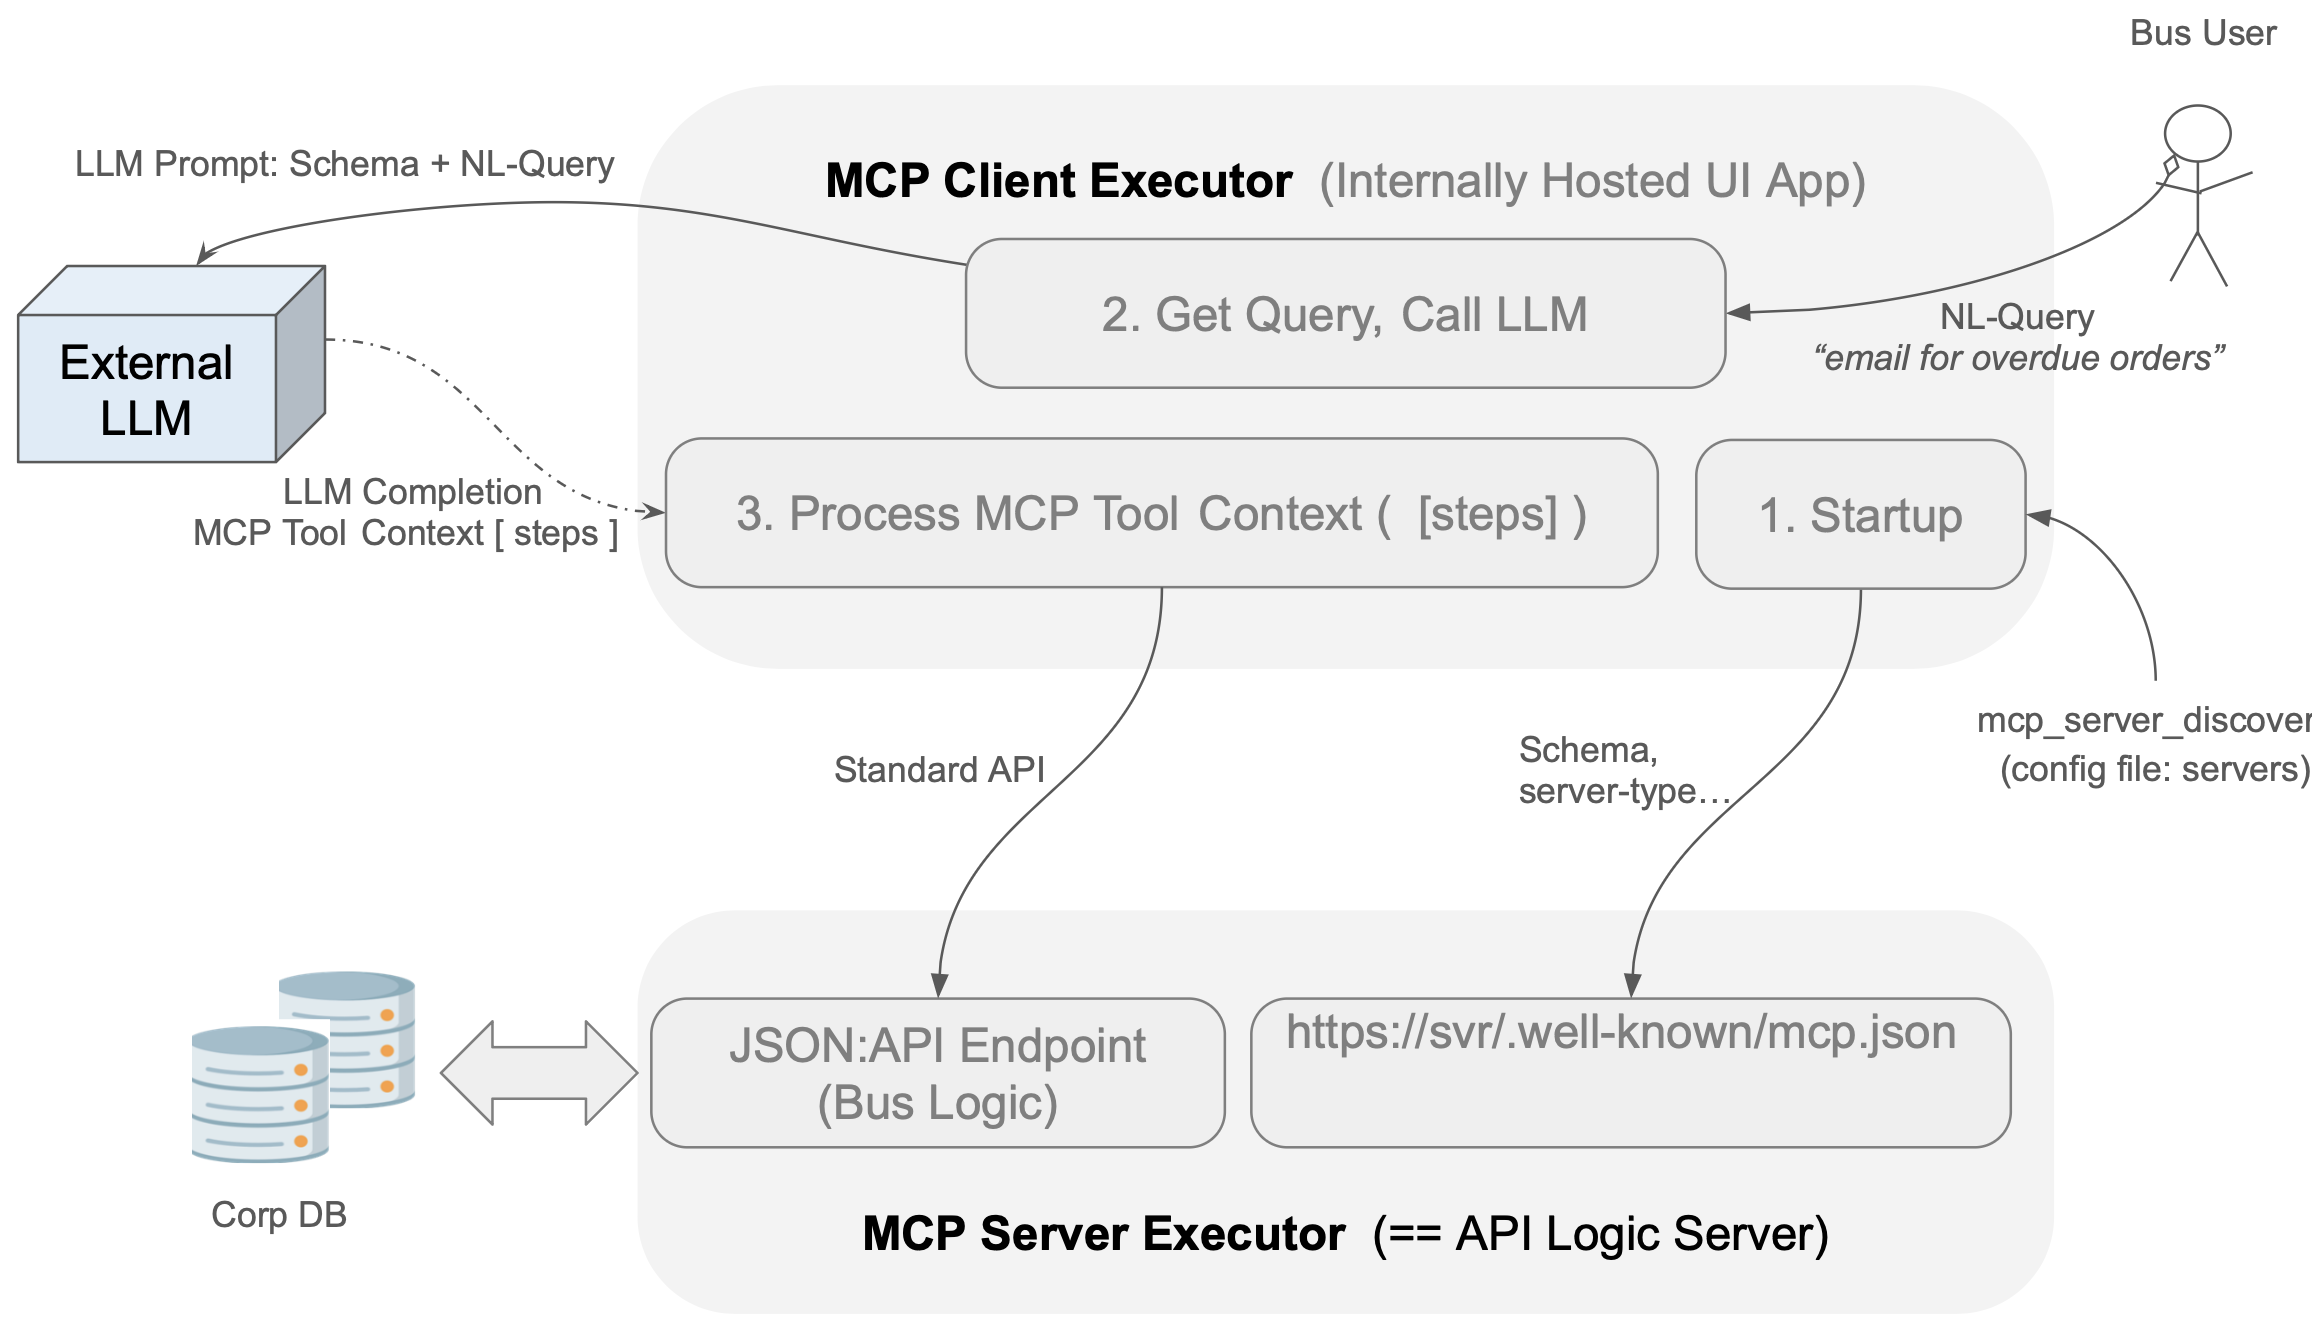
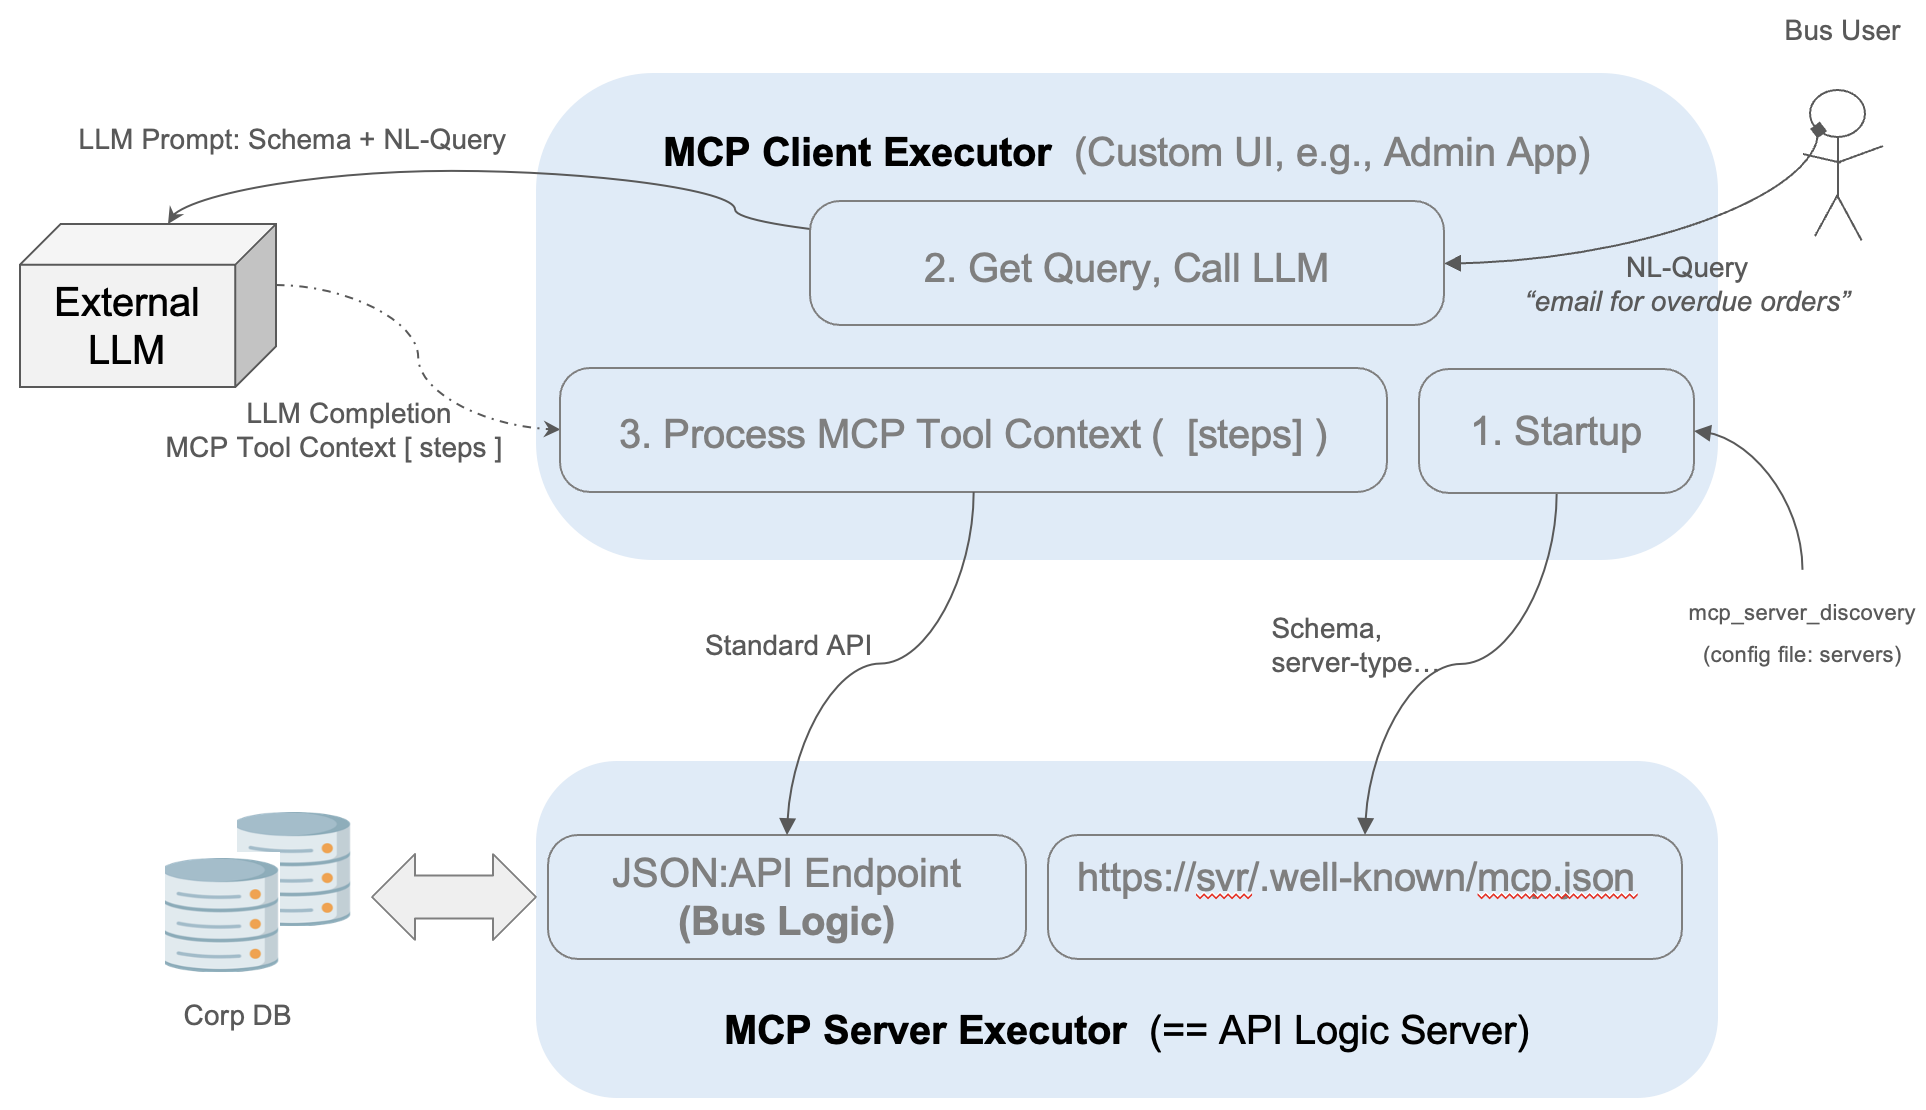
mcp admin app

diff --git a/docs/Integration-MCP.md b/docs/Integration-MCP.md
@@ -32,7 +32,7 @@
 
 2. MCP Client Executor sends Bus User ***NL query + schema*** (as prompt or tool definition) to the external LLM, here, ChatGPT (requires API Key).  LLM returns an ***MCP Tool Context*** JSON block.
 
-	* An MCP Client Executor might be similar in concept to installed/Web ChatGPT (etc), but those *cannot* be used to access MCPs since they cannot issue http calls.  This is an internally developed app (or, perhaps an IDE tool)
+	* An MCP Client Executor might be similar in concept to installed/Web ChatGPT (etc), but those *cannot* be used to access MCPs since they cannot issue http calls.  This is a custom client app (or, perhaps an IDE tool)
 
 		* We are using a test version: `integration/mcp/mcp_client_executor.py`
 	* Tool definitions are OpenAI specific, so we are sending the schema (in each prompt)
@@ -63,17 +63,19 @@ We want to do this without troubling IT.  MCP enables business users, while main
 Create the **basic_demo** under the [Manager](Manager.md) as described in the Manager readme:  
 
 1. In your IDE: `als create --project-name=basic_demo --db-url=basic_demo`
+
+![create-server](images/integration/mcp/overview/1-create-server.png)
+
 2. Run `als add-cust` to load mcp (and logic)
-3. Start the Server (f5)
-4. Run `python integration/mcp/mcp_client_executor.py`
+3. You will need an environment variable: `APILOGICSERVER_CHATGPT_APIKEY` ChatGPT APIKey (obtain one [like this](WebGenAI-CLI.md/#configuration)).
+4. Start the Server (F5)
+5. Run `python integration/mcp/mcp_client_executor.py`
 	* You can use Run Config: **Run designated Python file**
 
-
-The [basic_demo](Sample-Basic-Demo.md){:target="_blank" rel="noopener"} project illustrates basic GenAI-Logic operation: creating projects from new or existing databases, adding logic and security, and customizing your project using your IDE and Python.
-
-You will need an environment variable: `APILOGICSERVER_CHATGPT_APIKEY` ChatGPT APIKey (obtain one [like this](WebGenAI-CLI.md/#configuration)).
+> 💡 The [basic_demo](Sample-Basic-Demo.md){:target="_blank" rel="noopener"} project illustrates basic GenAI-Logic operation: creating projects from new or existing databases, adding logic and security, and customizing your project using your IDE and Python.
 
 &nbsp;
+
 ### Prompt
 
 Here is a NL prompt using *basic_demo* coded into `mcp_client_executor`
@@ -127,11 +129,38 @@ As shown below, a common [logic pattern](Logic.md#rule-patterns){:target="_blank
 
 &nbsp;
 
-## Appendix: Status - End-to-End Illustration
+## Admin App: MCP Client Executor
 
-This is intended to be a vehicle for exploring MCP.  It is not productized - we need to explore security, and perhaps integrating this into the Admin App.
+The screen shot below illustrates using the Admin App to create and execute MCP requests.  The actual MCP processing is in the Api Logic Server, so you can build your own custom app to provide MCP execution, using the Api Logic Server business logic.  
 
-We welcome participation in this exploration. Please contact us via [discord](https://discord.gg/HcGxbBsgRF).
+See the sub-sections below to see how to provide this on your own projects.
+
+![mcp-client](images/integration/mcp/mcp-client.png)
+
+&nbsp;
+
+### Create table: `SysMCP`
+
+This can be a table in your database, or you can create it in a separate database.  
+
+It requires a column called `prompt`.
+
+&nbsp;
+
+### `SysMcp` Logic: Request Pattern
+
+The screen shot below shows logic you must create for the `SysMcp` table.
+
+1. This is the same *request* pattern used for SysEmail.
+2. The code is virtually identical to the stand-alone MCP Client Executor described above.
+
+![mcp-client](images/integration/mcp/mcp_client_executor_request.png)
+
+&nbsp;
+
+## Appendix: Partners Encouraged
+
+We welcome participation in this project. Please contact us via [discord](https://discord.gg/HcGxbBsgRF).
 
 &nbsp;
 
